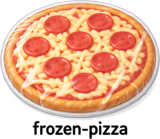
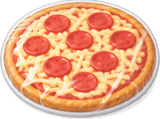
Add files via upload

diff --git a/src/lib/version.ts b/src/lib/version.ts
@@ -4,7 +4,7 @@
  * quickest tell for a partial upload: a missing file usually shows up as a
  * missing migration.
  */
-export const APP_VERSION = "0.513.0";
+export const APP_VERSION = "0.514.0";
 
 export const MIGRATIONS = [
   "0_init",
@@ -132,6 +132,12 @@ export const MIGRATIONS = [
 export type Change = { version: string; summary: string[] };
 
 export const CHANGES: Change[] = [
+  {
+    version: "0.514.0",
+    summary: [
+      "Fixed six prepared-meal icons (fajitas, stir-fry, mac and cheese, frozen pizza, tacos, soup) that had a stray word baked into the bottom of the picture.",
+    ],
+  },
   {
     version: "0.513.0",
     summary: [
